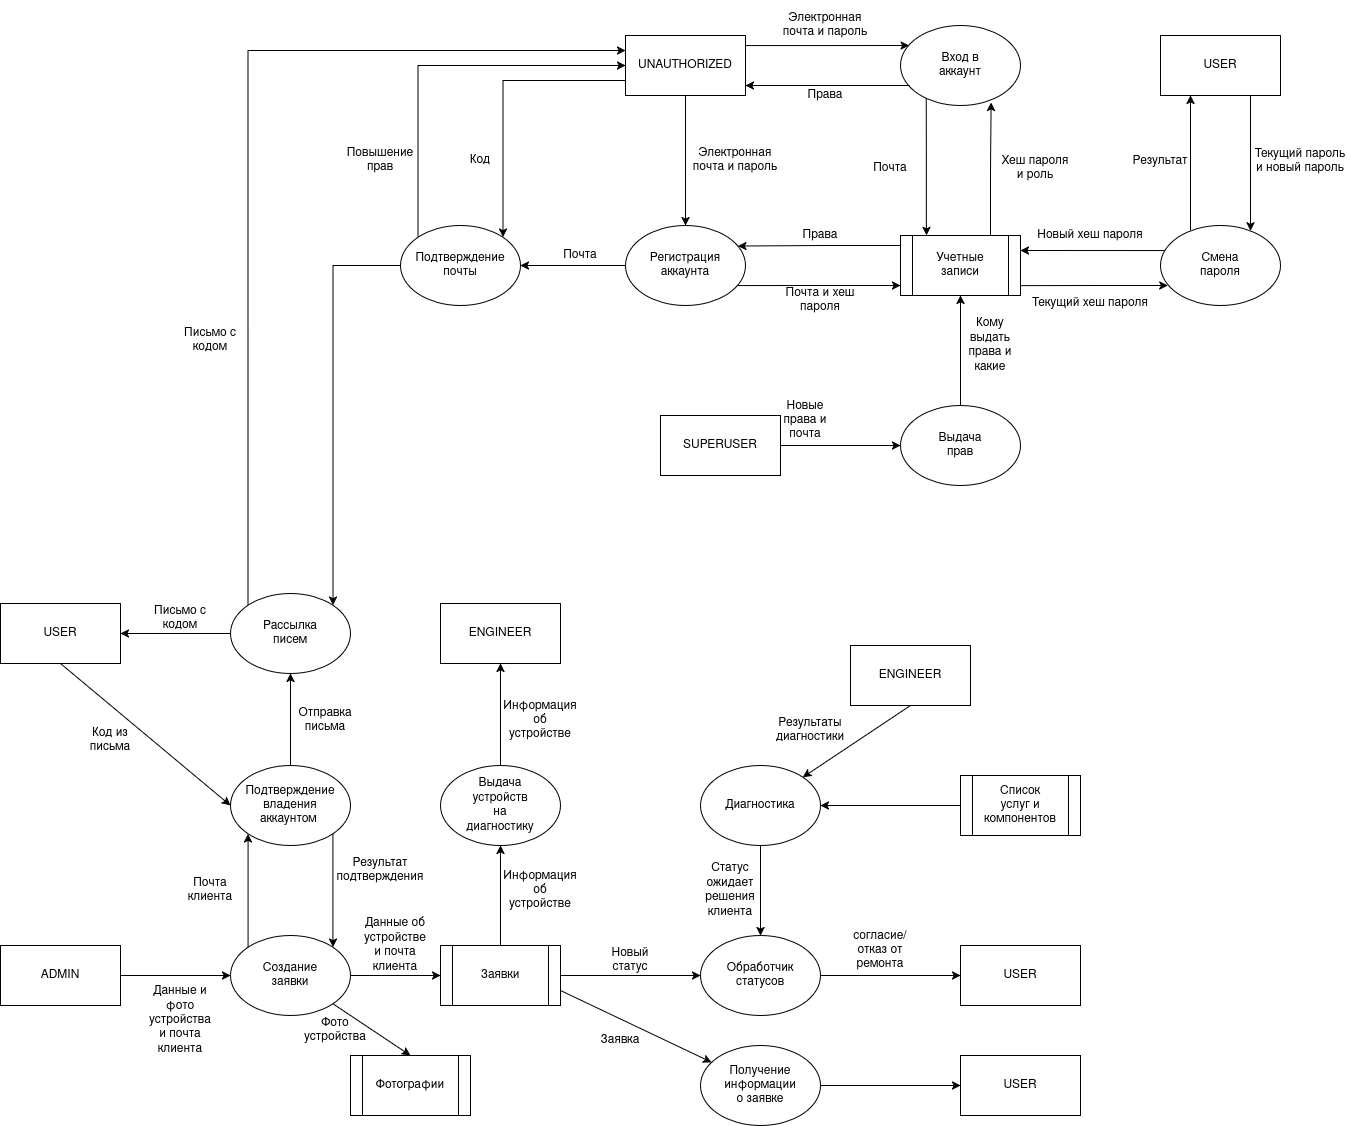
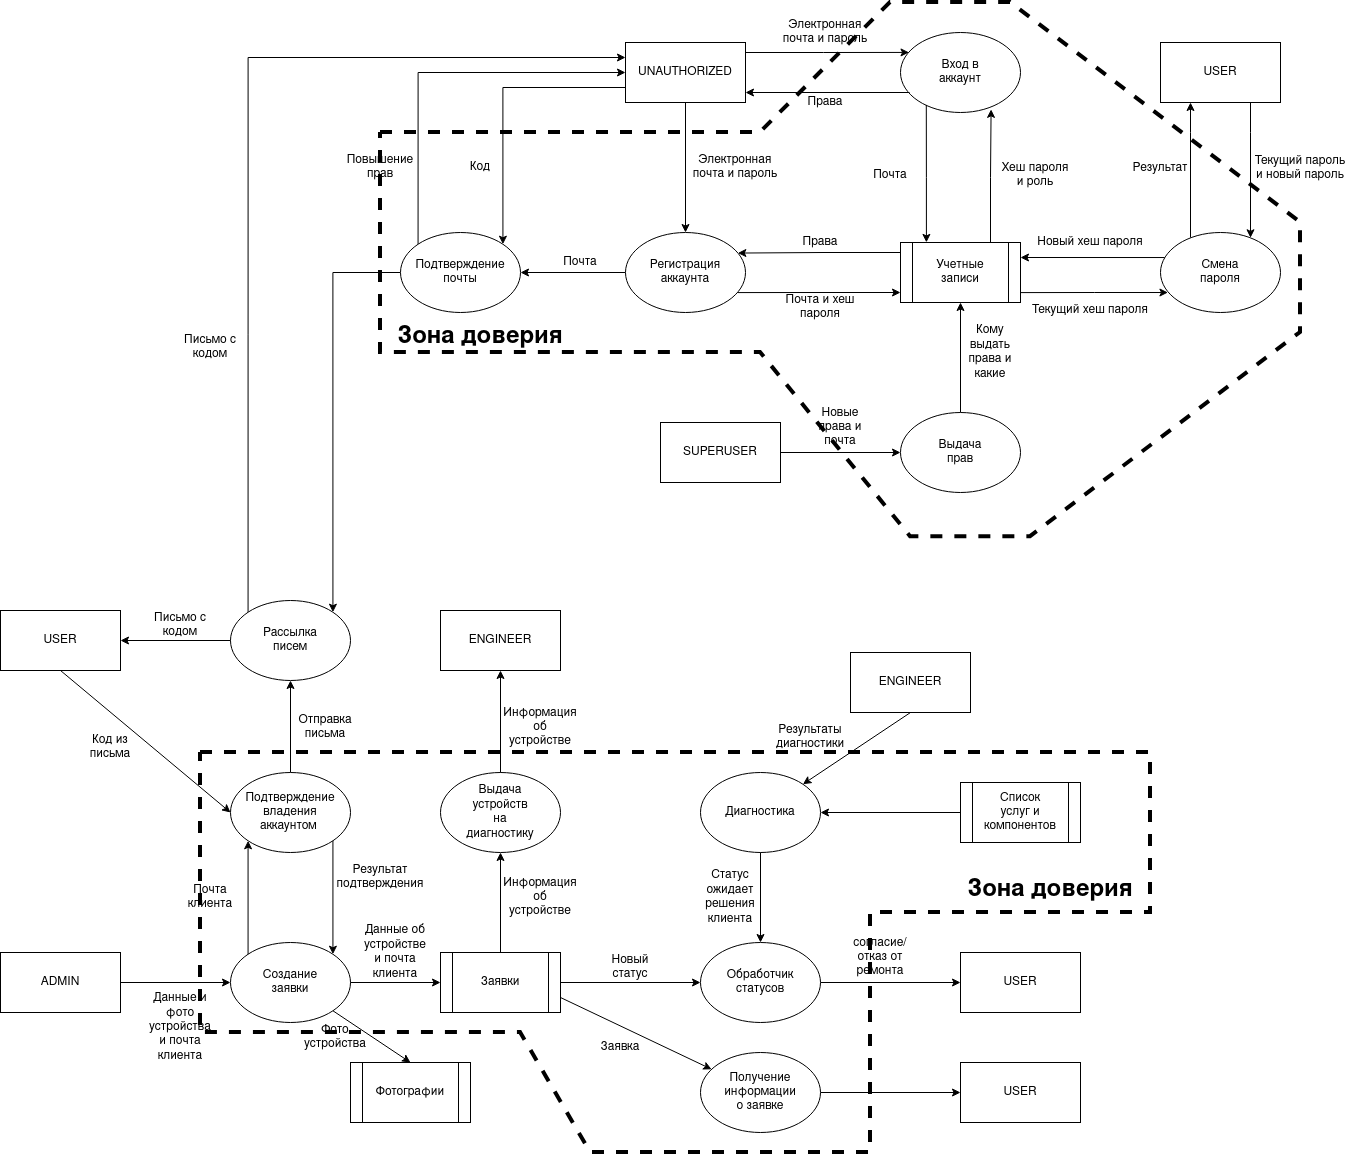
feat: add trust boundaries

diff --git a/docs/threat-model/threat-model.md b/docs/threat-model/threat-model.md
@@ -20,3 +20,14 @@
 ![Архитектура продукта](architecture/diagram.png)
 
 [Исходник диаграммы](architecture/diagram.drawio)
+
+### Границы доверия
+
+На диаграмме пунктирными линиями отмечены доверенные зоны серверной части продукта.
+
+- Верхняя зона отвечает за работу с учётными записями: регистрацию, подтверждение почты, вход, смену пароля и выдачу прав.
+- Нижняя зона отвечает за работу с заявками: создание заявки, диагностику, изменение статусов и получение информации о ремонте.
+
+Пользователи `UNAUTHORIZED`, `USER`, `ADMIN`, `ENGINEER` и `SUPERUSER` находятся за пределами доверенных зон. Даже после входа данные из браузера не считаются доверенными: сервер проверяет сессию, роль пользователя, принадлежность заявки и допустимость операции.
+
+Все данные, пересекающие пунктирную границу, проходят серверную проверку. Пароли не сохраняются в открытом виде: в хранилище учётных записей передаётся только хеш пароля. Внешние сервисы и хранилища также не входят в доверенную зону приложения, поэтому их ответы и доступность проверяются отдельно.
